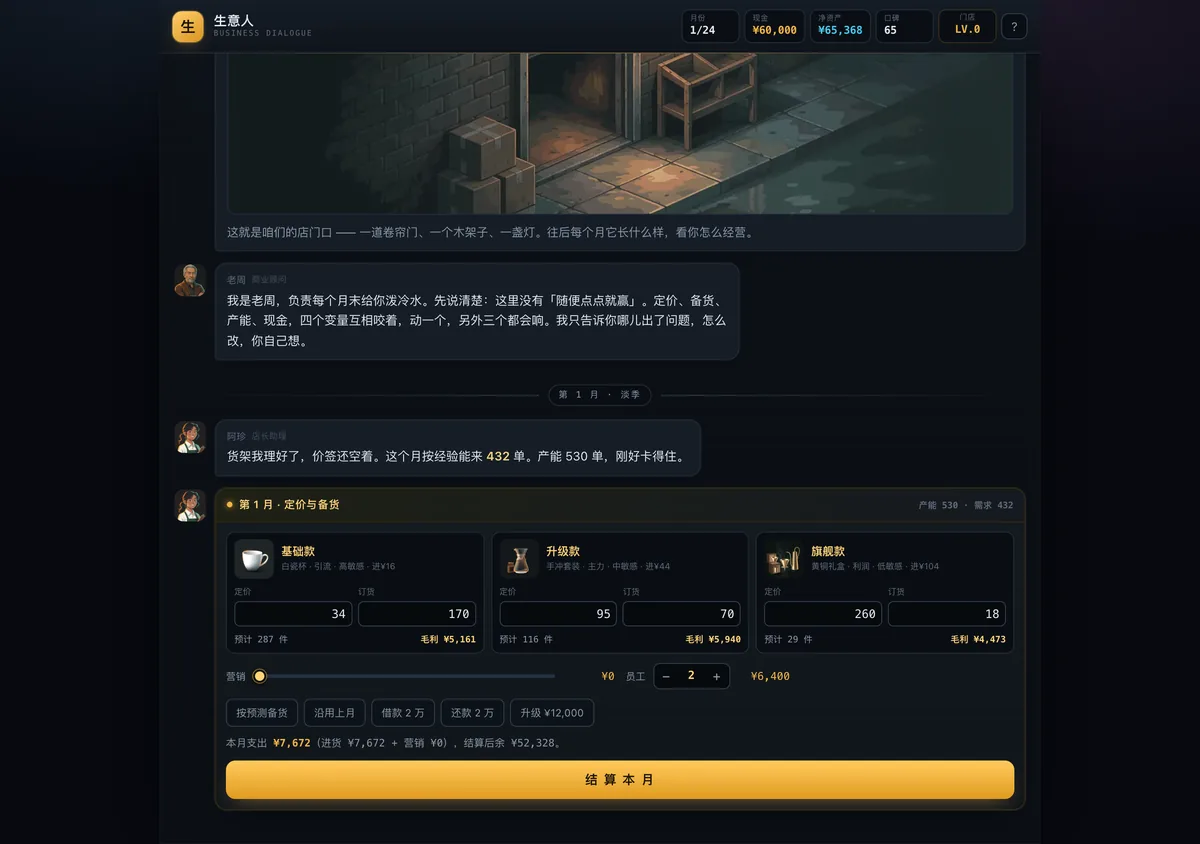
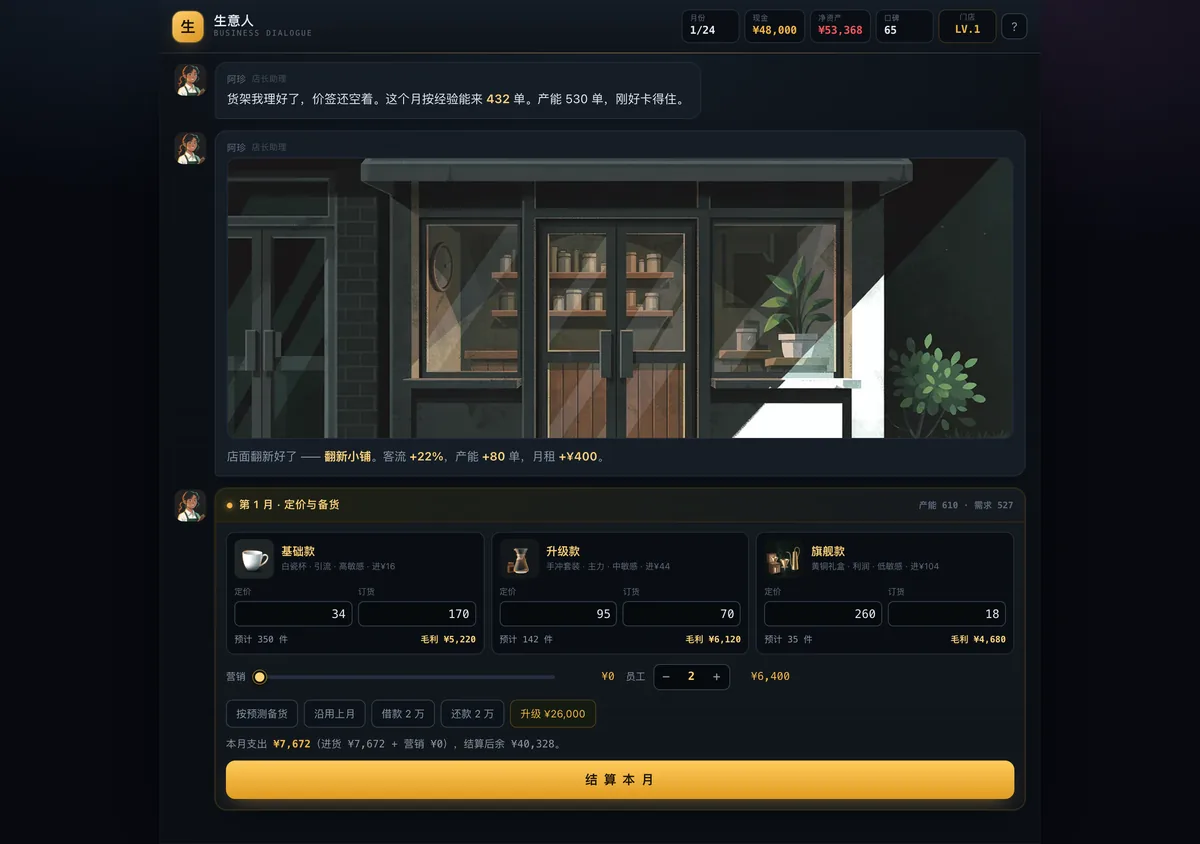
门店图加载占位底色；升级提示改由对话承载，避免压住消息；换用更完整的预览图

diff --git a/index.html b/index.html
@@ -149,7 +149,7 @@ img.av{object-fit:cover;object-position:center 18%;background:#12161c;box-shadow
 .sku-t{min-width:0}
 .sku-t b{display:block;font-size:12px;line-height:1.35}
 .sku-t i{font-style:normal;font-size:9px;color:var(--dim2);display:block;white-space:nowrap;overflow:hidden;text-overflow:ellipsis}
-.scene{width:100%;height:300px;object-fit:cover;object-position:center 45%;border-radius:10px;display:block;margin-bottom:9px;border:1px solid var(--line);cursor:pointer;transition:.15s}
+.scene{width:100%;height:300px;object-fit:cover;object-position:center 45%;border-radius:10px;display:block;margin-bottom:9px;border:1px solid var(--line);cursor:pointer;transition:.15s;background:#0e1319}
 .scene:hover{filter:brightness(1.1)}
 @media (max-width:700px){.scene{height:200px}}
 .sku-in{display:flex;gap:6px}
@@ -651,7 +651,7 @@ input[type=range]::-moz-range-thumb{width:12px;height:12px;border:2px solid #151
       S.cash -= cost; S.totals.capex += cost; S.level += 1;
       renderHud(); updateCard();
       setShop(S.level);
-      toast("门店 LV." + S.level + " · " + SHOP_NAMES[S.level] + "：客流 +" + pct(UP_DEMAND) + "，产能 +" + CAP_PER_LEVEL + "，月租 +" + money(RENT_PER_LVL) + "。", "ok");
+      // 升级细节由下方阿珍的消息承载，这里不再重复弹提示，免得压住对话
       const shopMsg = push("zhen",
         '<img class="scene" src="assets/shop' + S.level + '.webp" alt="门店 LV.' + S.level + '">' +
         '<div class="ev-r">店面翻新好了 —— <b>' + SHOP_NAMES[S.level] + '</b>。客流 <b>+' + pct(UP_DEMAND) +
